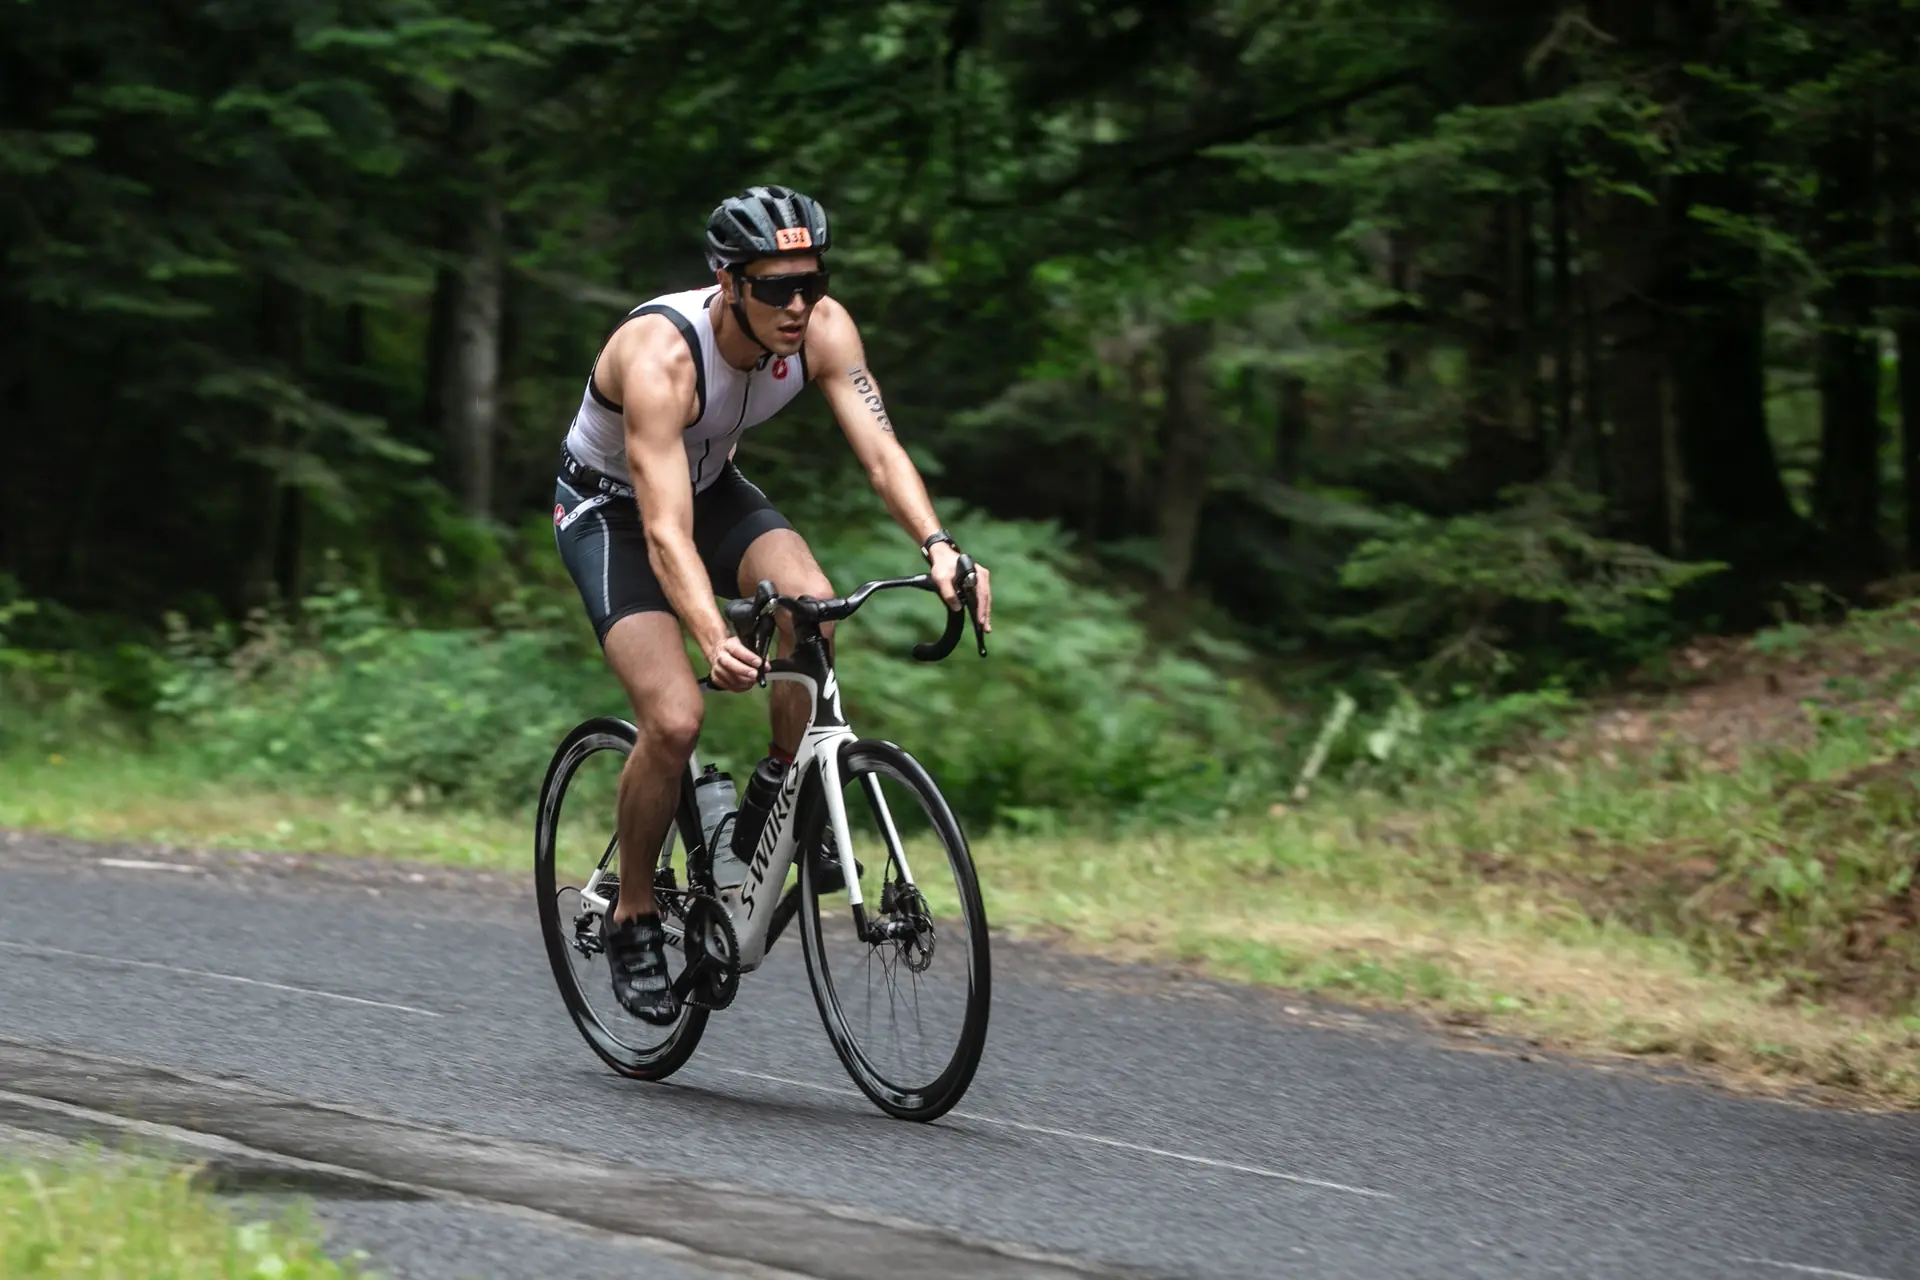
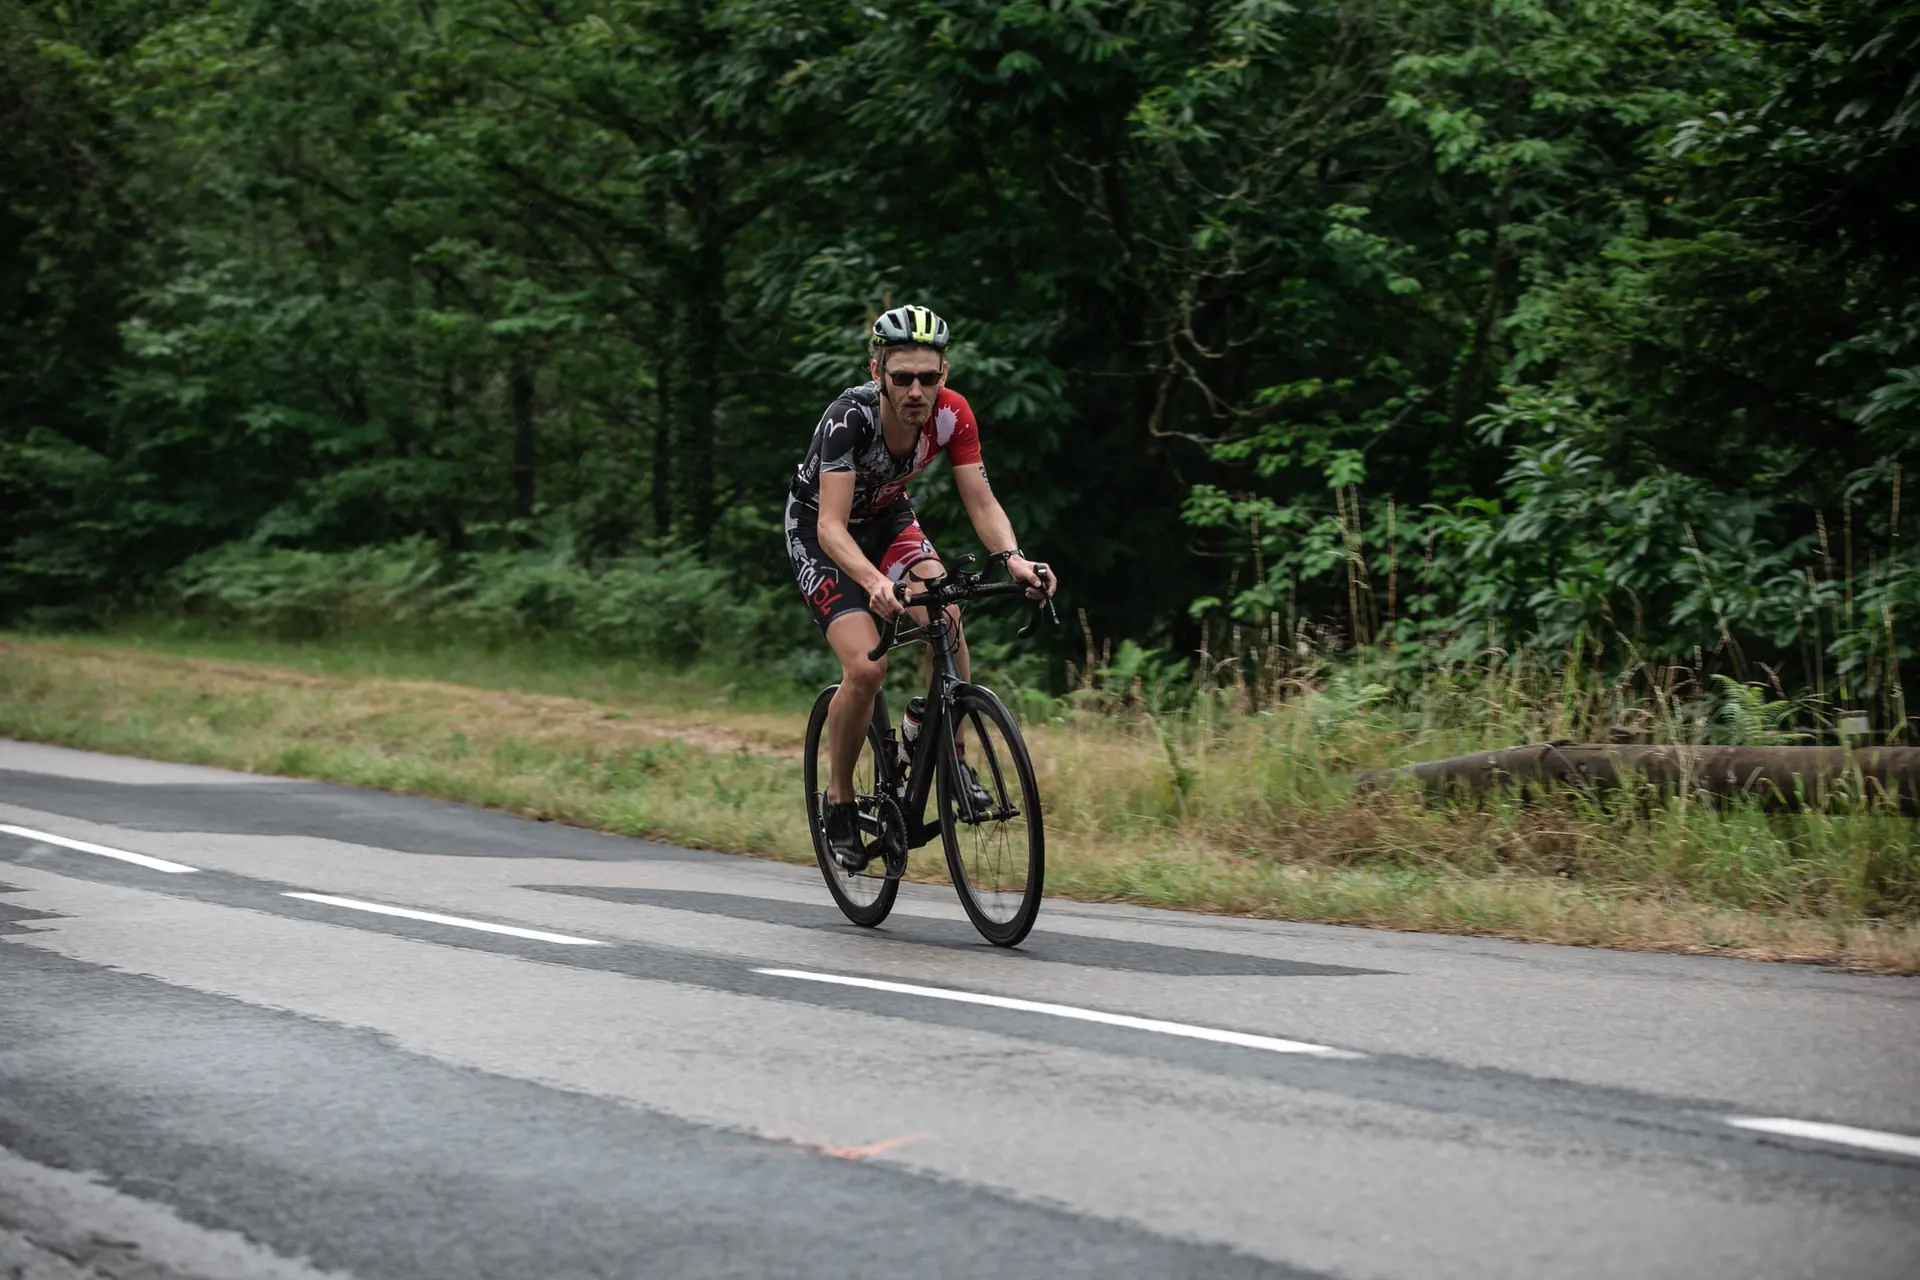
Remplace les photos en trifonction par des cyclistes en maillot
Galerie : 450, 586 et 522 à la place de 503, 518 et 580 ; appel final : 455 à la place de 598.

Claude-Session: https://claude.ai/code/session_01SJU7wontfixbsWduE9tXHE

diff --git a/index.html b/index.html
@@ -291,11 +291,11 @@
       <div><span class="idx"><b>03</b> En images</span><h2>Sur les routes de <span class="nw"><em>Pierre-Percée</em><span class="sq">.</span></span></h2><p class="sub">Les routes du secteur, photographiées lors d'un précédent événement LIGHT ON à Pierre-Percée. La forêt est fournie avec.</p></div>
     </div>
     <div class="h-photos">
-      <picture><source type="image/webp" srcset="assets/img/webp/galerie-1-640.webp 640w, assets/img/webp/galerie-1-1280.webp 1280w, assets/img/webp/galerie-1-1920.webp 1920w" sizes="(max-width: 860px) 50vw, 25vw" /><img class="big" width="2000" height="1333" src="assets/img/galerie-1.jpg" alt="Cycliste en danseuse sur une route forestière" loading="lazy" /></picture>
-      <picture><source type="image/webp" srcset="assets/img/webp/galerie-2-640.webp 640w, assets/img/webp/galerie-2-1280.webp 1280w, assets/img/webp/galerie-2-1920.webp 1920w" sizes="(max-width: 860px) 50vw, 25vw" /><img width="2000" height="1333" src="assets/img/galerie-2.jpg" alt="Cycliste dans un virage en forêt" loading="lazy" /></picture>
+      <picture><source type="image/webp" srcset="assets/img/webp/galerie-1-640.webp 640w, assets/img/webp/galerie-1-1280.webp 1280w, assets/img/webp/galerie-1-1920.webp 1920w" sizes="(max-width: 860px) 50vw, 25vw" /><img class="big" width="2000" height="1333" src="assets/img/galerie-1.jpg" alt="Cycliste en maillot sur une route forestière" loading="lazy" /></picture>
+      <picture><source type="image/webp" srcset="assets/img/webp/galerie-2-640.webp 640w, assets/img/webp/galerie-2-1280.webp 1280w, assets/img/webp/galerie-2-1920.webp 1920w" sizes="(max-width: 860px) 50vw, 25vw" /><img width="2000" height="1333" src="assets/img/galerie-2.jpg" alt="Cycliste en veste de vélo dans un virage en forêt" loading="lazy" /></picture>
       <picture><source type="image/webp" srcset="assets/img/webp/galerie-3-640.webp 640w, assets/img/webp/galerie-3-1280.webp 1280w, assets/img/webp/galerie-3-1920.webp 1920w" sizes="(max-width: 860px) 50vw, 25vw" /><img width="2000" height="1333" src="assets/img/galerie-3.jpg" alt="Cycliste souriante en pleine montée" loading="lazy" /></picture>
       <picture><source type="image/webp" srcset="assets/img/webp/galerie-4-640.webp 640w, assets/img/webp/galerie-4-1280.webp 1280w, assets/img/webp/galerie-4-1920.webp 1920w" sizes="(max-width: 860px) 50vw, 25vw" /><img width="2000" height="1333" src="assets/img/galerie-4.jpg" alt="Cycliste en descente sur route humide" loading="lazy" /></picture>
-      <picture><source type="image/webp" srcset="assets/img/webp/galerie-5-640.webp 640w, assets/img/webp/galerie-5-1280.webp 1280w, assets/img/webp/galerie-5-1920.webp 1920w" sizes="(max-width: 860px) 50vw, 25vw" /><img width="2000" height="1333" src="assets/img/galerie-5.jpg" alt="Cycliste au cœur de la forêt vosgienne" loading="lazy" /></picture>
+      <picture><source type="image/webp" srcset="assets/img/webp/galerie-5-640.webp 640w, assets/img/webp/galerie-5-1280.webp 1280w, assets/img/webp/galerie-5-1920.webp 1920w" sizes="(max-width: 860px) 50vw, 25vw" /><img width="2000" height="3000" src="assets/img/galerie-5.jpg" alt="Cycliste penché dans un virage" loading="lazy" /></picture>
     </div>
   </section>
 

diff --git a/tools/pages.py b/tools/pages.py
@@ -93,8 +93,8 @@ def all_pages(b):
     cta_photo = photo("depart", "", "100vw")
 
     gal = [photo("galerie-%d" % i, alt, "(max-width: 860px) 50vw, 25vw") for i, alt in enumerate(
-        ["Cycliste en danseuse sur une route forestière", "Cycliste dans un virage en forêt", "Cycliste souriante en pleine montée",
-         "Cycliste en descente sur route humide", "Cycliste au cœur de la forêt vosgienne"], 1)]
+        ["Cycliste en maillot sur une route forestière", "Cycliste en veste de vélo dans un virage en forêt", "Cycliste souriante en pleine montée",
+         "Cycliste en descente sur route humide", "Cycliste penché dans un virage"], 1)]
     gallery = ""
     if all(gal):
         gallery = """

diff --git a/A-CONFIRMER.md b/A-CONFIRMER.md
@@ -38,7 +38,7 @@ Dernière mise à jour : 17/11/2026.
 ## Photos utilisées
 
 Dossier Drive « PP 2022 - Photos Manu », séquence vélo uniquement (n° PierrePerce2022-xxx) :
-572 (accueil et image de partage), 480 (80 KM), 470 (145 KM), 487 (événement), 598 (appel final), 565 et 508 (en-têtes parcours), 465 (infos), 494 (accès), 442 (matériel), 503, 518, 535, 552, 580 (galerie).
+572 (accueil et image de partage), 480 (80 KM), 470 (145 KM), 487 (événement), 455 (appel final), 565 et 508 (en-têtes parcours), 465 (infos), 494 (accès), 442 (matériel), 450, 586, 535, 552, 522 (galerie). Photos en trifonction (503, 518, 580, 598) retirées le 17/11/2026.
 
 ## Avant la mise en ligne
 
